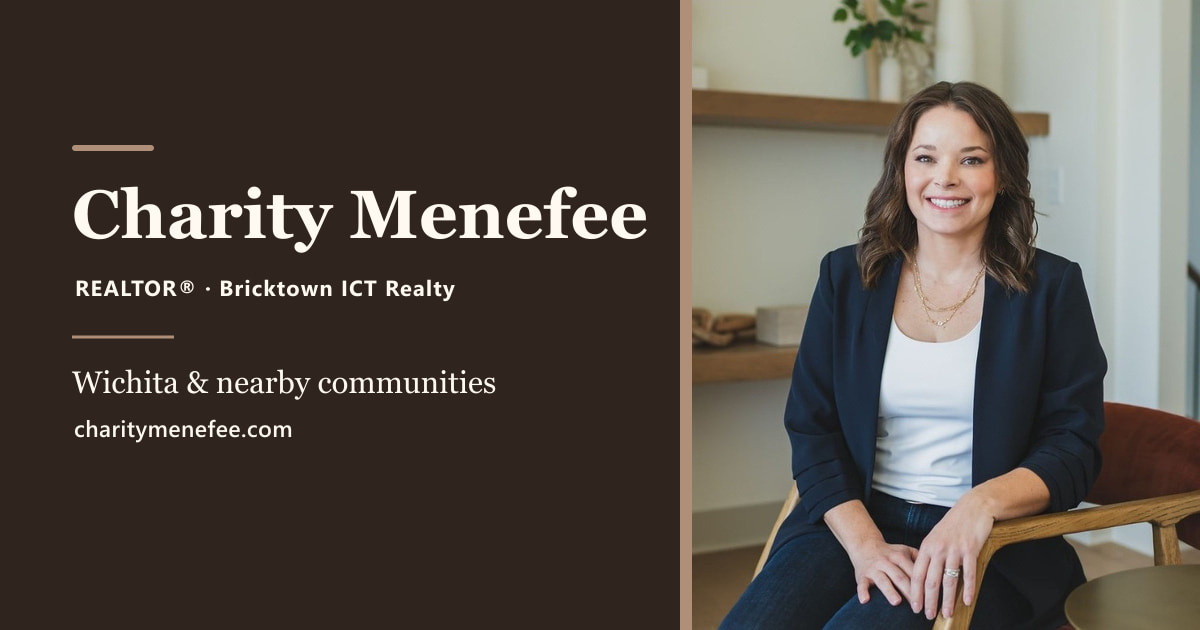
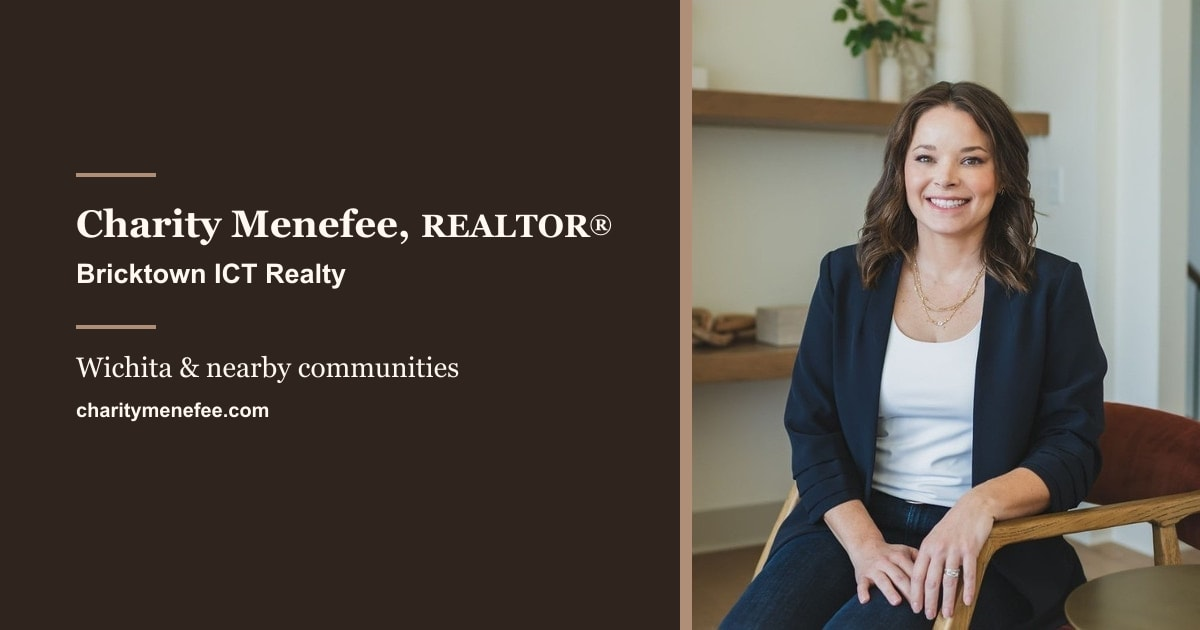
Implement full Open Graph social-share image strategy
- Finalize the default Charity Menefee card typography, including a
  corrected REALTOR (R) trademark treatment matching NAR convention.
- Create eight community-specific social cards from rights-approved
  photos, each with a scaled branding treatment, via a shared generator
  (scripts/generate-social-cards.mjs) instead of one-off per-card logic.
- Point the Valley Center blog post's social image at the Purple Spoon
  photo instead of the stale Fall Festival image.
- Add a temporary, noindex /social-preview/ page for reviewing all
  cards, excluded from the sitemap.
- Document the finalized strategy and typography spec in SEO.md and
  BRAND.md.

diff --git a/src/data/blogPosts.ts b/src/data/blogPosts.ts
@@ -37,7 +37,7 @@ export const valleyCenterFavoritesPost: BlogPostSummary = {
   thumbnail: valleyCenterParkPhoto,
   thumbnailAlt: 'The Purple Spoon ice cream shop storefront and sidewalk benches on Main Street in Valley Center',
   socialImage: '/images/static/blog/valley-center-hometown-favorites-social.jpg',
-  socialImageAlt: 'Aerial view of carnival rides and crowds at the Valley Center Fall Festival at night',
+  socialImageAlt: 'The Purple Spoon ice cream shop sign glowing above Main Street at sunset in Valley Center',
 };
 
 export const blogPosts: BlogPostSummary[] = [valleyCenterFavoritesPost];

diff --git a/SEO.md b/SEO.md
@@ -291,6 +291,32 @@ Do not add production canonical behavior prematurely if the site's final domain 
 
 **Status (2026-08-19):** implemented. `astro.config.mjs` sets `site: 'https://charitymenefee.com'`, and `BaseLayout.astro` emits one self-referencing `<link rel="canonical">` per page (and a matching `og:url`), derived from that config value plus the page's own path. This is safe alongside the current global `noindex` — a canonical tag has no effect on indexing eligibility by itself.
 
+## Social-share images (Open Graph / Twitter Card)
+
+Every page emits `og:image`/`twitter:image` via `BaseLayout.astro`'s `socialImage` prop, resolved to an absolute production URL through the same `Astro.site` / `resolveAbsoluteURL` mechanism used for canonicals. Standard social images are 1200×630.
+
+**Default:** the finalized, branded Charity Menefee card (`public/images/static/charity-menefee-social-share.jpg`) is the site-wide fallback — any page that doesn't pass its own `socialImage` prop gets this card automatically. Its typography is locked; see `BRAND.md`.
+
+**General/business pages** intentionally use the default card: homepage, About, Contact, Services index, Buying, Selling, Land & Acreage, Communities index, Blog index, Privacy, Disclaimer, 404.
+
+**Communities:** each of the eight community pages uses its own intentionally selected, rights-approved photo (`public/images/static/social/<slug>-social-share.jpg`) rather than the default card, branded with a scaled-down version of the same Charity/REALTOR® typography (see `BRAND.md`). A community only gets its own card when a genuinely strong, rights-approved photo exists for it — do not force a weak card onto a community lacking one; let it fall back to the default card instead.
+
+**Blog:** blog posts intentionally select an article-specific social image when a strong rights-approved one exists, set explicitly via `socialImage` in `src/data/blogPosts.ts` — never automatically the first image in the article. The Valley Center hometown-favorites post intentionally uses a 1200×630 derivative of the Purple Spoon storefront-sunset photo (`public/images/static/blog/valley-center-hometown-favorites-social.jpg`), not the Fall Festival photo.
+
+**Rights:** only images with documented, approved usage rights (see `IMAGE_RIGHTS.md`) may be used for a social card. Never use an image whose rights are undocumented or ambiguous, even if it's otherwise the strongest visual candidate.
+
+**Future blog workflow**, each time a new post is published:
+
+1. Intentionally choose the social image — don't default to the first inline image.
+2. Verify its usage rights are documented in `IMAGE_RIGHTS.md`.
+3. Create/crop a 1200×630 derivative.
+4. Save it following the established convention (`public/images/static/blog/<post-slug>-social.jpg`).
+5. Explicitly set `socialImage` (and `socialImageAlt`) on the post's entry in `blogPosts.ts`.
+6. Preview the final OG card before publishing.
+7. Verify the generated HTML's `og:image` after a production build.
+
+**REALTOR®:** see `BRAND.md` for the finalized trademark-mark typography (sizes, ® scale, and vertical offset) — this file intentionally doesn't duplicate those mechanics.
+
 ## Sitemap
 
 Before launch:

diff --git a/BRAND.md b/BRAND.md
@@ -178,6 +178,30 @@ Kansas Dusk retains the site's original Georgia display / Inter body typography 
 
 The exact font stacks are defined through `--font-display` and `--font-body` in `src/styles/tokens.css`. Do not hard-code substitute font stacks in individual components. This preserves the site's friendly, soft, readable, and slightly characterful typography while Kansas Dusk supplies its own color treatment.
 
+### REALTOR® mark treatment
+
+Wherever "REALTOR" appears as part of Charity's name or title on a social-share card (the default card and all eight community cards), it must include the registered trademark symbol, styled as follows:
+
+- The ® is significantly smaller than the letters in REALTOR — not a full-size character.
+- The ® is raised from the baseline, but stays within the upper portion of REALTOR's cap height. It should not extend noticeably above the capital letters, and should not rest on the baseline either.
+- The ® must remain immediately adjacent to and visually attached to REALTOR, reading as one mark rather than REALTOR followed by a detached symbol.
+- Use the conventional NAR REALTOR® visual treatment as the conceptual alignment reference (proportion and placement only) — do not copy NAR's font, color, or layout.
+- Position the ® relative to REALTOR itself (e.g. an SVG `<tspan dy>` nested in the same text run as REALTOR), never as a separately, absolutely positioned element — so it can never drift from REALTOR's position if the surrounding text changes.
+
+**Finalized default-card typography** (`public/images/static/charity-menefee-social-share.jpg`), Georgia bold unless noted — this spec is locked; do not alter it:
+
+- Charity Menefee: 38px
+- REALTOR: 32px
+- ®: 24px, via `<tspan dy="-5">` relative to REALTOR's baseline
+- Bricktown ICT Realty: 27px (Inter bold) — 71.1% of Charity Menefee's size
+
+**Community-card branding block** (the eight `public/images/static/social/*-social-share.jpg` cards): the community name is the dominant element on these cards, so the Charity/REALTOR®/Bricktown block is scaled down as a whole from the default-card spec above, preserving every ratio exactly — REALTOR-to-Charity, ®-to-REALTOR, the ® offset relative to REALTOR's size, and Bricktown's ≥50%-of-Charity floor:
+
+- Charity Menefee: 22px
+- REALTOR: 19px
+- ®: 14px, via `<tspan dy="-3">`
+- Bricktown ICT Realty: 16px (72.7% of Charity Menefee)
+
 ## Photography and imagery
 
 Photography should ultimately emphasize:
